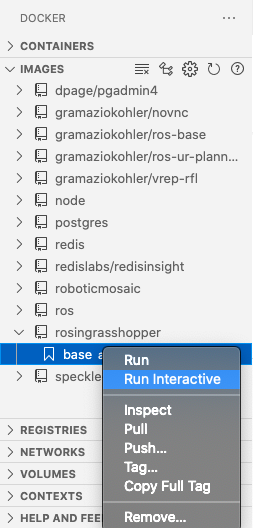
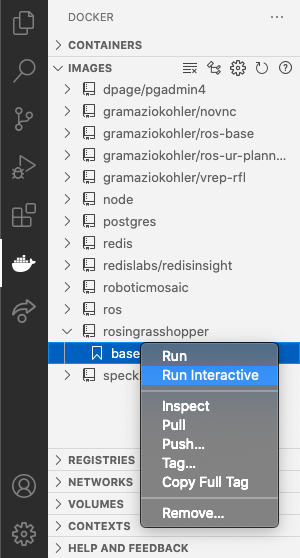
update readme

diff --git a/Tutorial 00 - ROS in Docker/README.md b/Tutorial 00 - ROS in Docker/README.md
@@ -39,17 +39,16 @@ RUN apt-get update
 
 ## Running the ROS container from terminal
 - In visual studio code, on the left bar, select Docker extention
-
-![docker_extention](./media/docker_extention.png)
-
-- From you IMAGES tab, select the newly created image `rosingrasshopper` and select the version which you created `base`
+- From your IMAGES tab, select the newly created image `rosingrasshopper` and select the version which you created `base`
     - Right click and select "Run Interactive"
-    
+
     ![run_interactive](./media/run_interactive.png)
 
 - You can see your container running in the terminal. 
 now you can try to run ROS using:
     - roscore
+
+    ![roscore](./media/roscore.png)
 
 # Additional Resources
  [List of available ROS images on Docker](https://registry.hub.docker.com/_/ros/)
